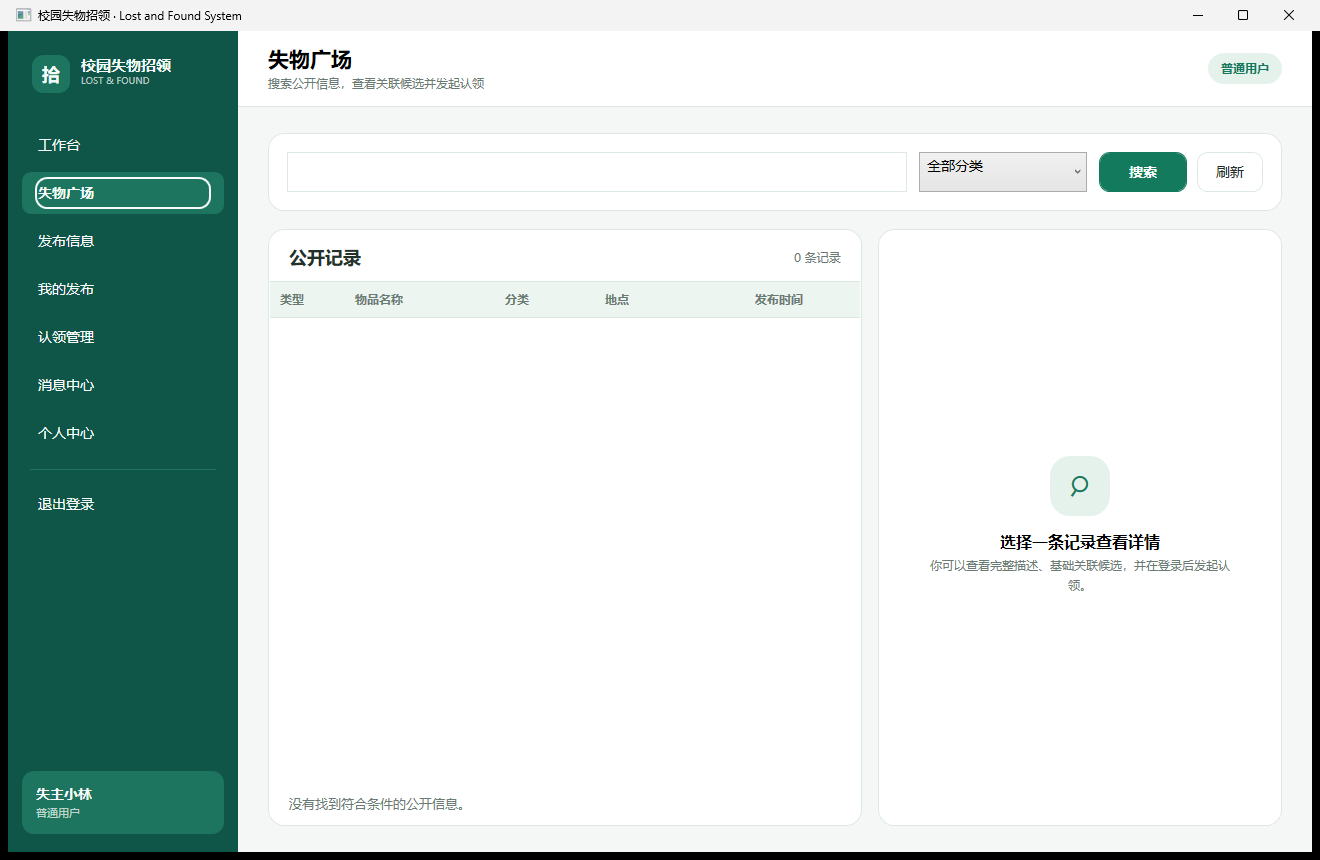
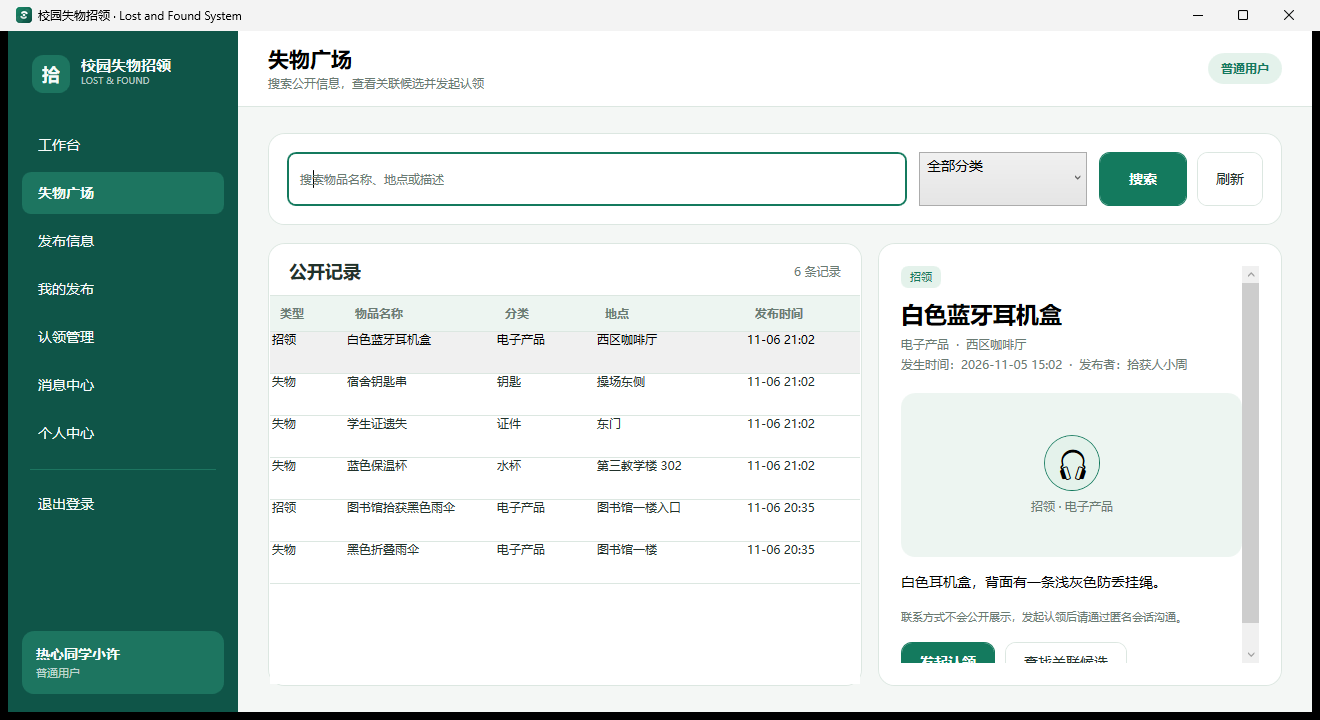
Refine browse focus indicator and category artwork

diff --git a/LostAndFound.Desktop/Themes/Styles.xaml b/LostAndFound.Desktop/Themes/Styles.xaml
@@ -22,6 +22,18 @@
     <SolidColorBrush x:Key="HeroEndBrush" Color="#F5FBF7" />
     <SolidColorBrush x:Key="FocusBrush" Color="#2E8C73" />
 
+    <Style x:Key="ButtonFocusVisualStyle" TargetType="Control">
+        <Setter Property="Template">
+            <Setter.Value>
+                <ControlTemplate>
+                    <Border Margin="8,2"
+                            BorderBrush="{DynamicResource FocusBrush}"
+                            BorderThickness="0,0,0,2" />
+                </ControlTemplate>
+            </Setter.Value>
+        </Setter>
+    </Style>
+
     <Style TargetType="Window">
         <Setter Property="FontFamily" Value="{DynamicResource AppFont}" />
         <Setter Property="Foreground" Value="{DynamicResource TextBrush}" />
@@ -71,6 +83,7 @@
         <Setter Property="Padding" Value="18,9" />
         <Setter Property="MinHeight" Value="40" />
         <Setter Property="Cursor" Value="Hand" />
+        <Setter Property="FocusVisualStyle" Value="{StaticResource ButtonFocusVisualStyle}" />
         <Setter Property="Template">
             <Setter.Value>
                 <ControlTemplate TargetType="Button">
@@ -85,12 +98,6 @@
                                               VerticalAlignment="Center"
                                               TextElement.Foreground="{TemplateBinding Foreground}"
                                               RecognizesAccessKey="True" />
-                            <Border x:Name="FocusRing"
-                                    Margin="-4"
-                                    BorderBrush="{DynamicResource FocusBrush}"
-                                    BorderThickness="2"
-                                    CornerRadius="12"
-                                    Visibility="Collapsed" />
                         </Grid>
                     </Border>
                     <ControlTemplate.Triggers>
@@ -101,9 +108,6 @@
                         </Trigger>
                         <Trigger Property="IsPressed" Value="True">
                             <Setter TargetName="ButtonBorder" Property="Opacity" Value="0.82" />
-                        </Trigger>
-                        <Trigger Property="IsKeyboardFocused" Value="True">
-                            <Setter TargetName="FocusRing" Property="Visibility" Value="Visible" />
                         </Trigger>
                         <Trigger Property="IsEnabled" Value="False">
                             <Setter TargetName="ButtonBorder" Property="Opacity" Value="0.45" />
@@ -121,6 +125,7 @@
         <Setter Property="Background" Value="{DynamicResource SurfaceBrush}" />
         <Setter Property="BorderBrush" Value="{DynamicResource BorderBrush}" />
         <Setter Property="FontWeight" Value="Normal" />
+        <Setter Property="FocusVisualStyle" Value="{StaticResource ButtonFocusVisualStyle}" />
         <Setter Property="Template">
             <Setter.Value>
                 <ControlTemplate TargetType="Button">
@@ -135,12 +140,6 @@
                                               VerticalAlignment="Center"
                                               TextElement.Foreground="{TemplateBinding Foreground}"
                                               RecognizesAccessKey="True" />
-                            <Border x:Name="FocusRing"
-                                    Margin="-4"
-                                    BorderBrush="{DynamicResource FocusBrush}"
-                                    BorderThickness="2"
-                                    CornerRadius="12"
-                                    Visibility="Collapsed" />
                         </Grid>
                     </Border>
                     <ControlTemplate.Triggers>
@@ -154,9 +153,6 @@
                         </Trigger>
                         <Trigger Property="IsPressed" Value="True">
                             <Setter TargetName="ButtonBorder" Property="Opacity" Value="0.82" />
-                        </Trigger>
-                        <Trigger Property="IsKeyboardFocused" Value="True">
-                            <Setter TargetName="FocusRing" Property="Visibility" Value="Visible" />
                         </Trigger>
                         <Trigger Property="IsEnabled" Value="False">
                             <Setter TargetName="ButtonBorder" Property="Opacity" Value="0.42" />
@@ -185,6 +181,7 @@
         <Setter Property="BorderBrush" Value="Transparent" />
         <Setter Property="Foreground" Value="{DynamicResource SidebarTextBrush}" />
         <Setter Property="FontWeight" Value="Normal" />
+        <Setter Property="FocusVisualStyle" Value="{StaticResource ButtonFocusVisualStyle}" />
         <Setter Property="Template">
             <Setter.Value>
                 <ControlTemplate TargetType="Button">
@@ -199,12 +196,6 @@
                                               VerticalAlignment="Center"
                                               TextElement.Foreground="{TemplateBinding Foreground}"
                                               RecognizesAccessKey="True" />
-                            <Border x:Name="FocusRing"
-                                    Margin="-3"
-                                    BorderBrush="{DynamicResource SidebarTextBrush}"
-                                    BorderThickness="2"
-                                    CornerRadius="11"
-                                    Visibility="Collapsed" />
                         </Grid>
                     </Border>
                     <ControlTemplate.Triggers>
@@ -212,9 +203,6 @@
                             <Setter TargetName="ButtonBorder"
                                     Property="Background"
                                     Value="{DynamicResource SidebarSelectedBrush}" />
-                        </Trigger>
-                        <Trigger Property="IsKeyboardFocused" Value="True">
-                            <Setter TargetName="FocusRing" Property="Visibility" Value="Visible" />
                         </Trigger>
                     </ControlTemplate.Triggers>
                 </ControlTemplate>

diff --git a/LostAndFound.Desktop/Views/BrowseView.xaml b/LostAndFound.Desktop/Views/BrowseView.xaml
@@ -148,11 +148,39 @@
                                        FontSize="12"
                                        Foreground="{DynamicResource MutedTextBrush}"
                                        LineHeight="20" />
-                            <Image x:Name="DetailImage"
-                                   Height="160"
-                                   Margin="0,16,0,0"
-                                   Stretch="UniformToFill"
-                                   Visibility="Collapsed" />
+                            <Border Height="164"
+                                    Margin="0,16,0,0"
+                                    Background="{DynamicResource SurfaceMutedBrush}"
+                                    CornerRadius="14"
+                                    ClipToBounds="True">
+                                <Grid>
+                                    <Image x:Name="DetailImage"
+                                           Stretch="UniformToFill"
+                                           Visibility="Collapsed" />
+                                    <StackPanel x:Name="FallbackArtwork"
+                                                HorizontalAlignment="Center"
+                                                VerticalAlignment="Center">
+                                        <Border Width="56"
+                                                Height="56"
+                                                HorizontalAlignment="Center"
+                                                Background="{DynamicResource AccentSoftBrush}"
+                                                BorderBrush="{DynamicResource AccentBrush}"
+                                                BorderThickness="1"
+                                                CornerRadius="28">
+                                            <TextBlock x:Name="CategoryGlyph"
+                                                       FontFamily="Segoe UI Emoji"
+                                                       FontSize="30"
+                                                       HorizontalAlignment="Center"
+                                                       VerticalAlignment="Center" />
+                                        </Border>
+                                        <TextBlock x:Name="CategoryArtworkLabel"
+                                                   Margin="0,8,0,0"
+                                                   FontSize="12"
+                                                   Foreground="{DynamicResource MutedTextBrush}"
+                                                   HorizontalAlignment="Center" />
+                                    </StackPanel>
+                                </Grid>
+                            </Border>
                             <TextBlock x:Name="DetailDescription"
                                        Margin="0,16,0,0"
                                        FontSize="14"

diff --git a/LostAndFound.Desktop/Views/BrowseView.xaml.cs b/LostAndFound.Desktop/Views/BrowseView.xaml.cs
@@ -91,6 +91,7 @@ public partial class BrowseView : UserControl
             bitmap.Freeze();
             DetailImage.Source = bitmap;
             DetailImage.Visibility = Visibility.Visible;
+            FallbackArtwork.Visibility = Visibility.Collapsed;
             System.Windows.Automation.AutomationProperties.SetName(
                 DetailImage,
                 posting.ImageAltText ?? "物品图片");
@@ -99,6 +100,13 @@ public partial class BrowseView : UserControl
         {
             DetailImage.Source = null;
             DetailImage.Visibility = Visibility.Collapsed;
+            FallbackArtwork.Visibility = Visibility.Visible;
+            CategoryGlyph.Text = GetCategoryGlyph(posting);
+            CategoryArtworkLabel.Text =
+                $"{UiFormat.PostingTypeLabel(posting.Type)} · {posting.CategoryName}";
+            System.Windows.Automation.AutomationProperties.SetName(
+                FallbackArtwork,
+                $"{CategoryArtworkLabel.Text}类型插画");
         }
 
         if (_currentUser is null)
@@ -218,6 +226,26 @@ public partial class BrowseView : UserControl
         ClaimStatementBox.Clear();
         ClaimPanel.Visibility = Visibility.Collapsed;
         ClaimButton.Focus();
+    }
+
+    private static string GetCategoryGlyph(PostingSummary posting)
+    {
+        if (posting.Title.Contains("伞", StringComparison.Ordinal) ||
+            posting.Description.Contains("伞", StringComparison.Ordinal))
+        {
+            return "☂";
+        }
+
+        return posting.CategoryName switch
+        {
+            "电子产品" => "🎧",
+            "证件" => "▣",
+            "书籍" => "📚",
+            "衣物" => "🧥",
+            "水杯" => "🥤",
+            "钥匙" => "🔑",
+            _ => "📦"
+        };
     }
 
     private void FindMatchesButton_Click(object sender, RoutedEventArgs e)
